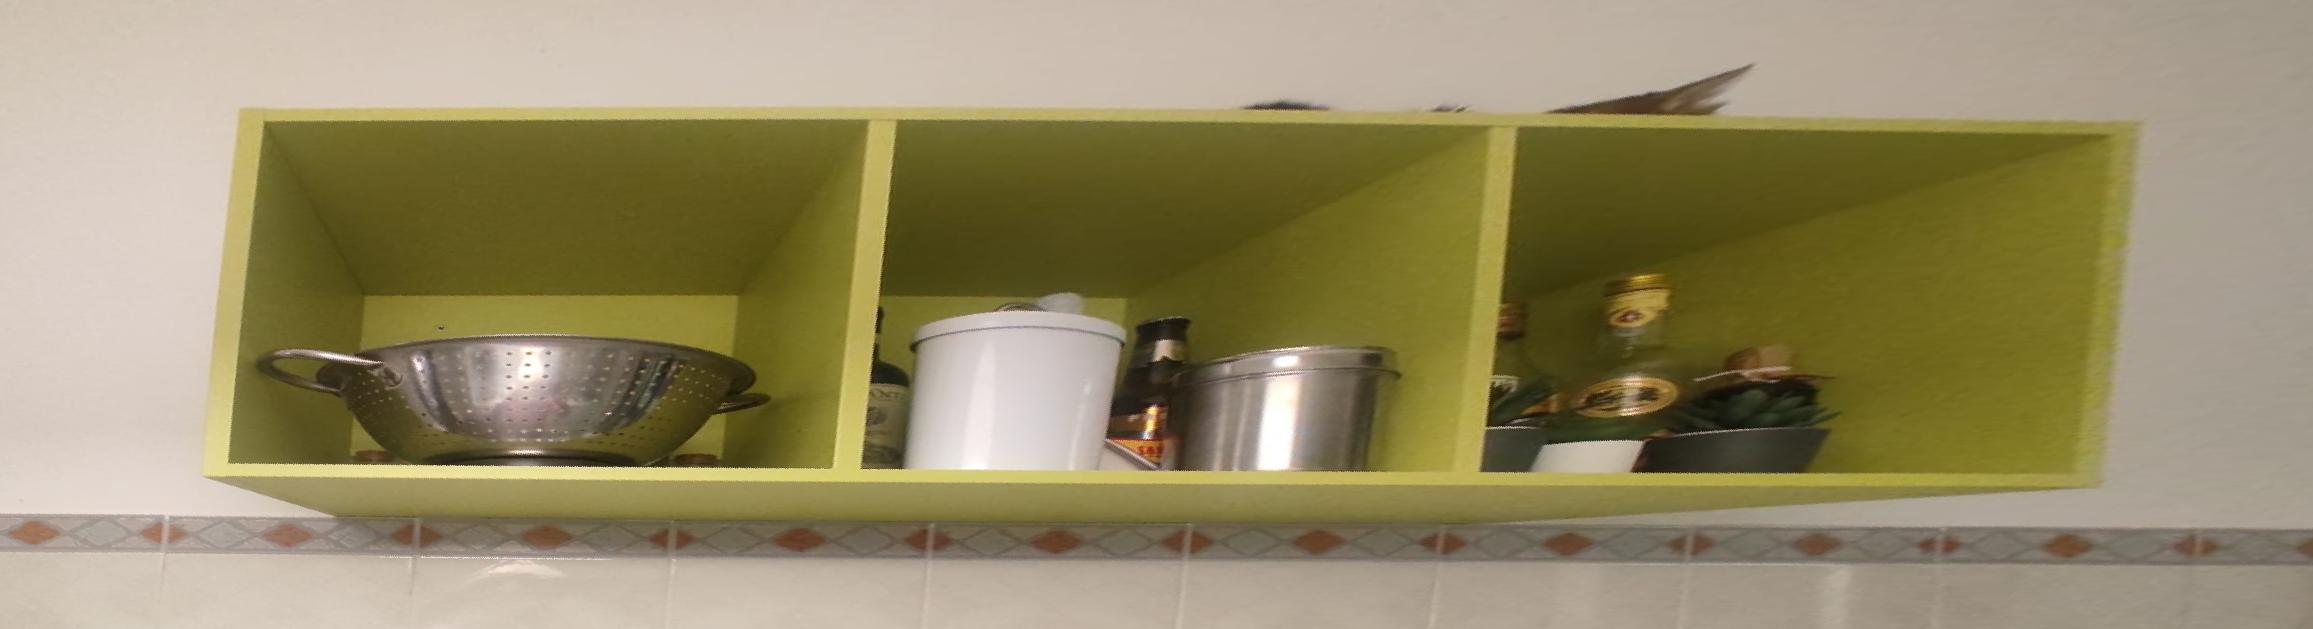
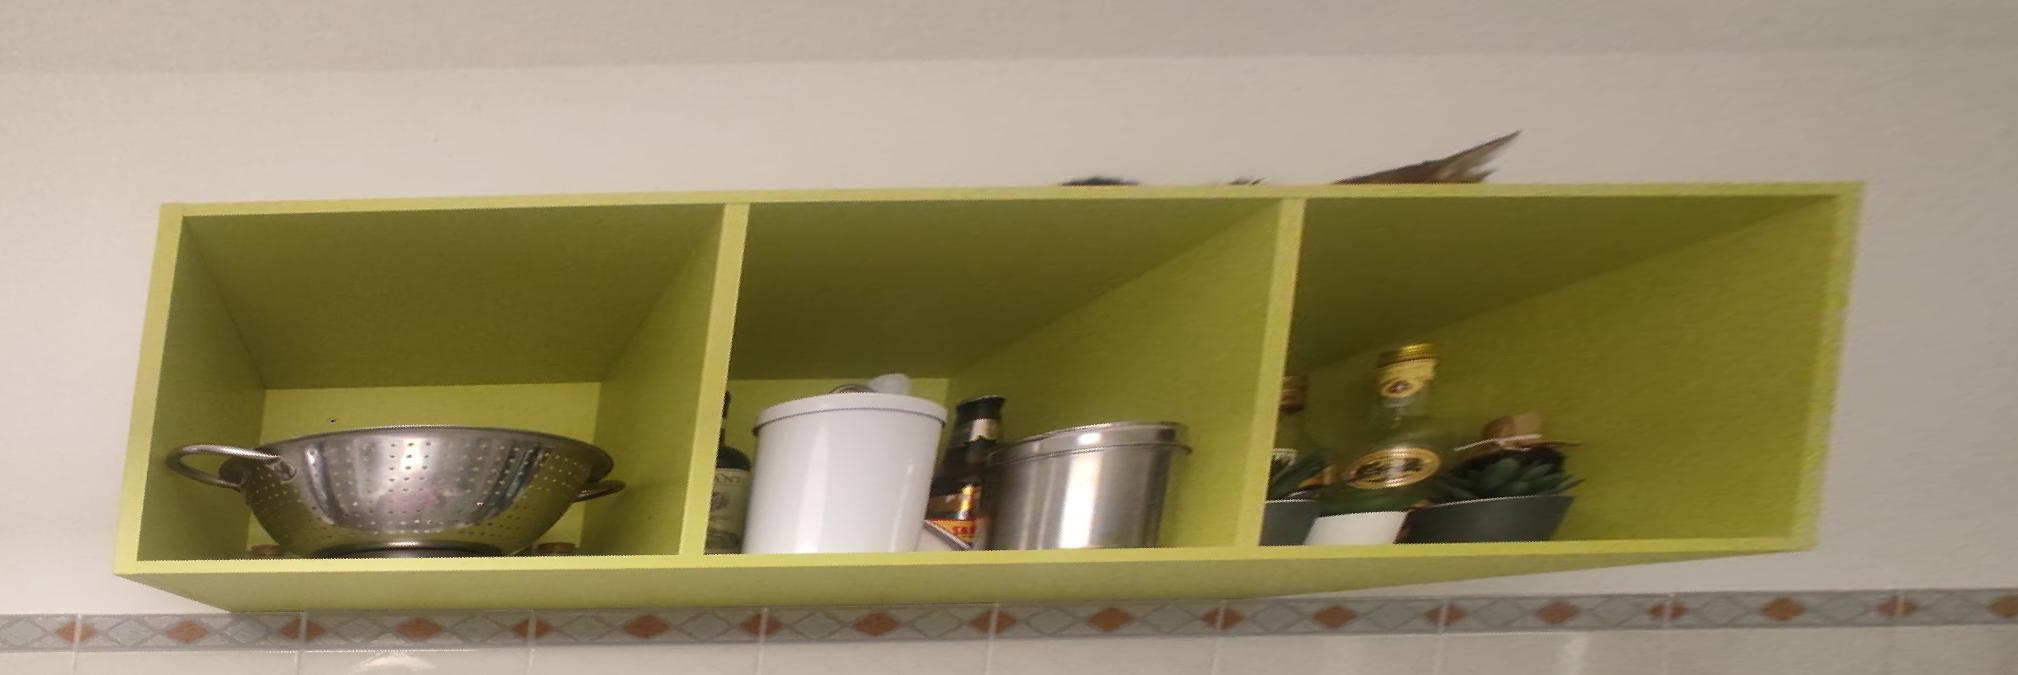
Other upgrades

diff --git a/src/image_analysis/2_theory_implementation/4_vertical_reconstruction/main.m b/src/image_analysis/2_theory_implementation/4_vertical_reconstruction/main.m
@@ -14,7 +14,7 @@ img = imread('images\scene.jpg');
 
 % Import the variables 
 calibration = load('variables\calibration.mat');
-IAC = calibration.IAC;
+omega = calibration.IAC;
 vanishing = load('variables\vanishing.mat');
 ph = vanishing.ph; 
 pm = vanishing.pm; 
@@ -24,7 +24,6 @@ pl = vanishing.pl;
 %% Computation of useful variables
 % Compute the line at infinity
 l_infty = points_to_line(ph, pl);
-omega = IAC;
 
 %% Intersection between the Image of the Absolute Conic and the line at infinity
 % System variables (for symbolic computation of the intersection points)
@@ -59,29 +58,28 @@ H = inv(U * sqrt(D));
 % Apply the homography to the image
 tform = projective2d(H');
 img_mod = imwarp(img, tform, 'FillValues', 255); 
-img_mod = imrotate(img_mod, -116);
-img_mod = imcrop(img_mod, [545.5 2746.5 2312 628]);
+img_mod = imrotate(img_mod, -131);
+img_mod = imcrop(img_mod, [589.5 2756.5 2017 674]);
 
 
 %% Height computation
 % Define the 3 points used to compute the height
-p1 = [239, 108, 1]';
-p2 = [2101, 487, 1]';
-p3 = [202, 477, 1]';
-
-
+p1 = [163, 202, 1]';
+p2 = [1819, 548, 1]';
+p3 = [114, 573, 1]';
 
 % Compute the lines passing through the points
 l1 = points_to_line(p1, p3);
 l2 = points_to_line(p2, p3);
 
 % Compute the relative width and height
-lenght= norm(p2 - p3); 
-height  = norm(p1 - p3); 
+lenght = norm(p2 - p3); 
+height = norm(p1 - p3); 
 
 % Compare width and height to find the real height
 real_height = height / lenght;
 angle = angle_between_lines(l1, l2);
+
 
 %% Image plotting
 points = [p1';  p2';  p3'];

diff --git a/src/image_analysis/2_theory_implementation/3_calibration/main.m b/src/image_analysis/2_theory_implementation/3_calibration/main.m
@@ -16,7 +16,7 @@ pl = vanishing.pl';
 pm = vanishing.pm';
 l_infty = vanishing.l_infty;
 rectification = load('variables\rectification.mat');
-H = rectification.H;
+H = inv(rectification.H);
 
 
 %% Normalize all variables
@@ -25,7 +25,6 @@ pl = pl ./ pl(3);
 ph = ph ./ ph(3);
 pm = pm ./ pm(3);
 l_infty = l_infty ./ l_infty(3);
-
 
 
 %% Define the system
@@ -53,7 +52,7 @@ eq1 = lx(1,:) * omega * ph == 0;
 eq2 = lx(2,:) * omega * ph == 0;
 
 % Third constraint: pm' * omega * pl = 0
-eq3 = pm.' * omega * pl == 0;
+ eq3 = pm.' * omega * pl == 0;
 
 % Fourth constraint: h1' * omega * h1 = h2' * omega * h2
 eq4 = h1.' * omega * h1 == h2.' * omega * h2;
@@ -72,11 +71,11 @@ eqn = [eq1, eq2, eq3, eq4, eq5];
 X = double(A);
 Y = double(y);
 
+W = X \ Y;
 
-
-W= X\Y;
 % Construct the Image of Absolute Conic (IAC) matrix
 IAC = double([W(1, 1), 0, W(2, 1);  0, 1, W(3, 1);  W(2, 1), W(3, 1), W(4, 1)]);
+
 
 %% Compute the calibration matrix
 % Extract intrinsic parameters from IAC

diff --git a/src/image_analysis/2_theory_implementation/6_localization/main.m b/src/image_analysis/2_theory_implementation/6_localization/main.m
@@ -16,7 +16,7 @@ img = imread('images\scene.jpg');
 scene = load('variables\scene.mat');
 points = scene.points;
 rectification = load('variables\rectification.mat');
-H = rectification.H
+H = rectification.H;
 real_depth = rectification.real_depth; 
 calibration = load('variables\calibration.mat');
 K = calibration.K;
